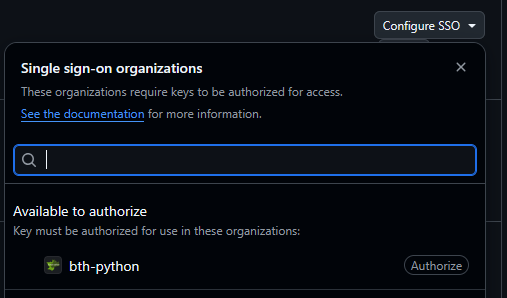
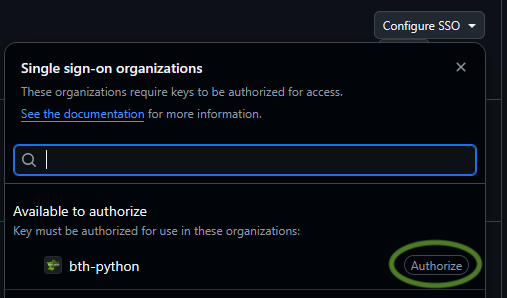
Update until create git repo.

Changed region(s): [[0.7692, 0.7852, 0.9763, 0.9664]]

diff --git a/src/content/docs/laromaterial/kursrepo/index.md b/src/content/docs/laromaterial/kursrepo/index.md
@@ -21,6 +21,10 @@ I denna guiden får du hjälp med:
 
 1. [Få tillgång till organisationen på GitHub](/laromaterial/kursrepo/organisation).
 
-2. [Klona kursens repo lokalt](/laromaterial/kursrepo/skapa-git-repo).
+2. [Skapa katalogen dbwebb-kurser](/laromaterial/kursrepo/skapa-katalog-dbwebb-kurser).
+
+3. [Klona kursens repo lokalt](/laromaterial/kursrepo/skapa-git-repo).
+
+4. [Skapa SSH-nycklar för autentisering mot GitHub](/laromaterial/kursrepo/ssh-key).
 
 I kursen kommer vi att referera till ditt Git-repo som ditt "kursrepo".
